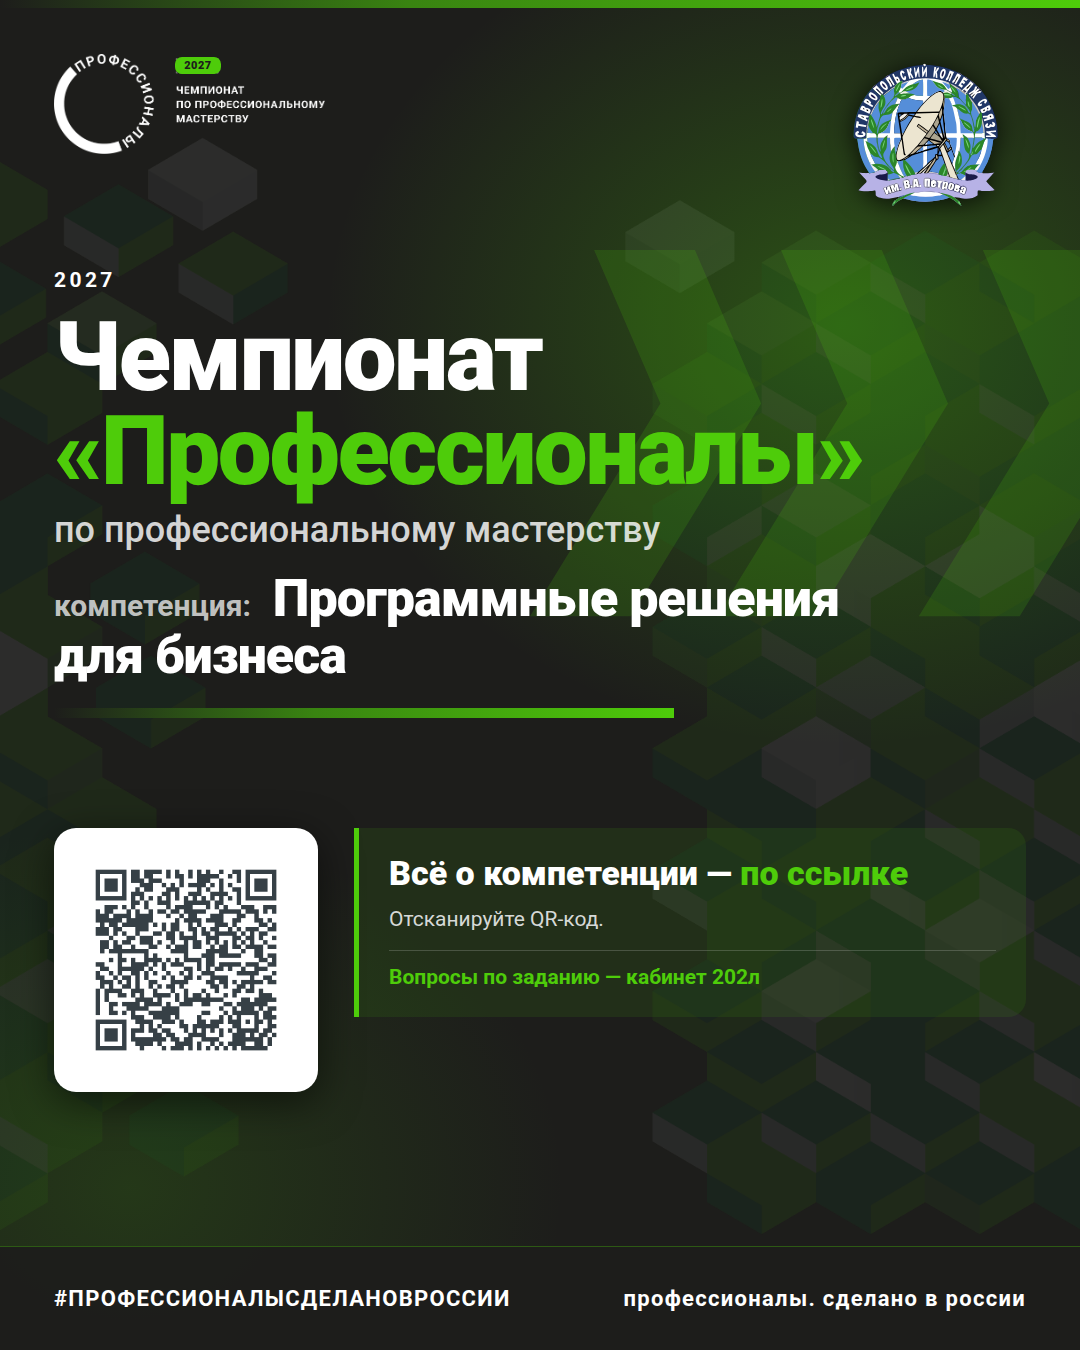
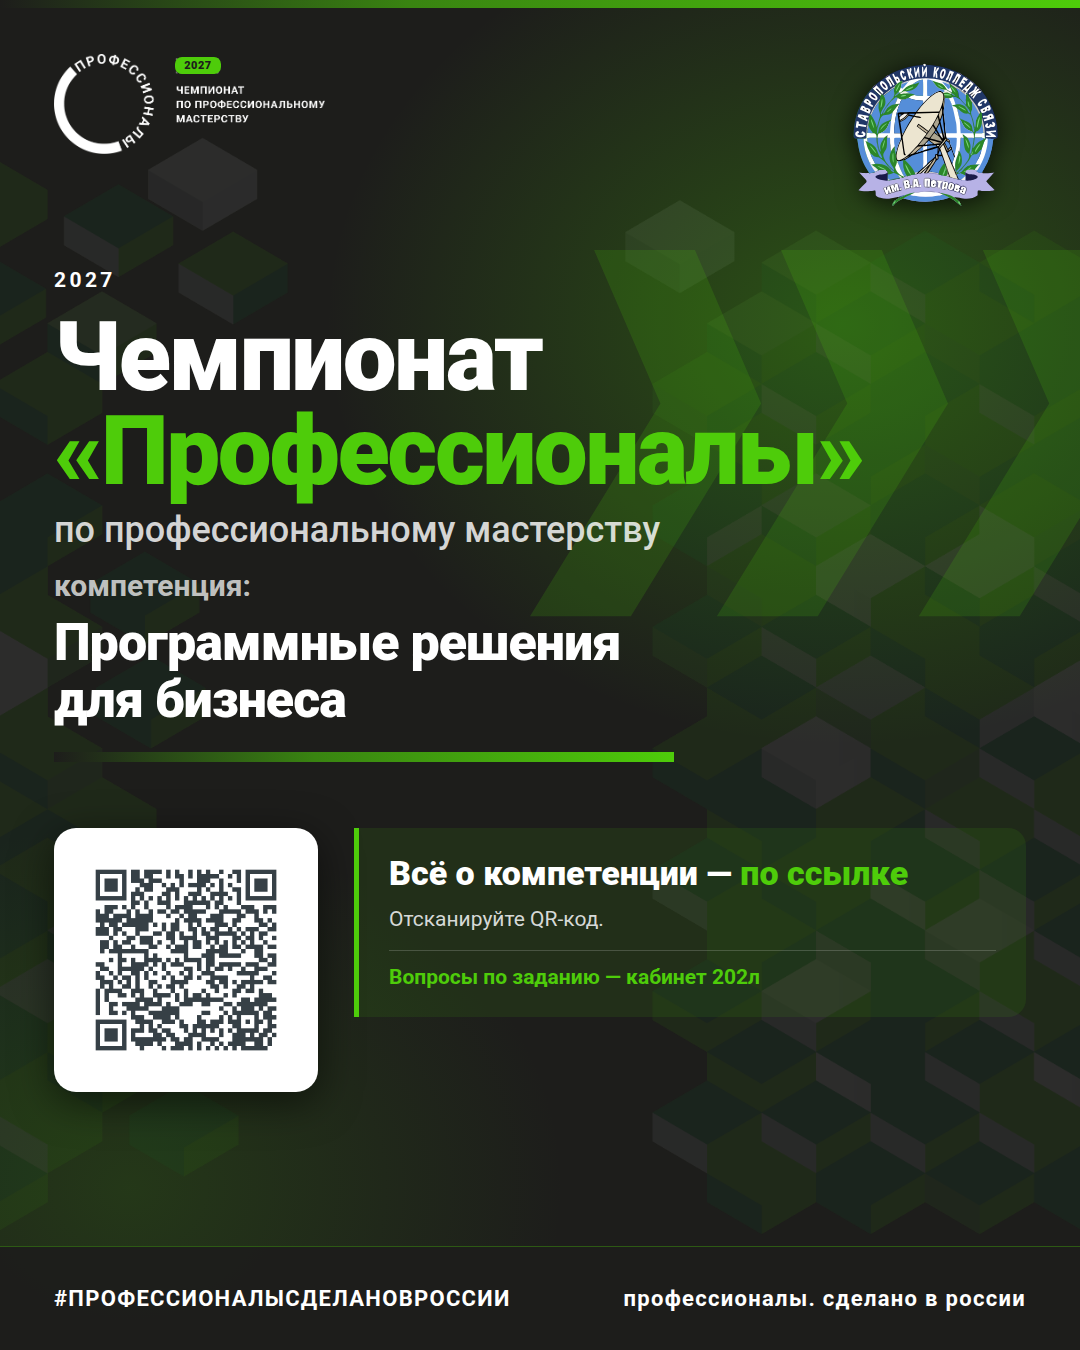
refactor(poster): подпись «компетенция:» снова отдельной строкой
Вернули блочную подпись над названием компетенции, но с двоеточием:

  компетенция:
  Программные решения
  для бизнеса

Раз подпись стоит сама, ширину колонки вернули к исходной: самая
длинная строка теперь «Программные решения» — около 447 px, она влезает
в 560 px с запасом. Основной постер: колонка 660 → 560, слот логотипа
x 740 → 650. Вариант A: 940 → 720.

Changed region(s): [[0.0306, 0.4044, 0.7944, 0.5911]]

diff --git a/post/poster.html b/post/poster.html
@@ -93,12 +93,12 @@
      Без подложки: чистый svg поверх фотографии. Чтобы отделить знак от
      тёмного неба, вместо фона — только тень, и она не перекрывает фон.
      Выравнивание задаёт слот: это и есть свободная зона в правой части
-     полотна — от текстовой колонки до правого поля (x 740…1026) и от
+     полотна — от текстовой колонки до правого поля (x 650…1026) и от
      низа шапки до верха антенны (y 236…772). Логотип центрируется в ней. */
   .college-slot {
     position: absolute; z-index: 5;
-    left: 740px; top: 236px;
-    width: 286px; height: 536px;
+    left: 650px; top: 236px;
+    width: 376px; height: 536px;
     display: flex; align-items: center; justify-content: center;
   }
   /* Чистый svg: подложки нет, отделяет знак от неба только тень. */
@@ -114,7 +114,7 @@
   .content {
     position: absolute; z-index: 5;
     left: 54px; top: 250px;
-    width: 660px;
+    width: 560px;
   }
 
   .eyebrow {
@@ -141,21 +141,21 @@
     text-shadow: 0 2px 12px rgba(0,0,0,.80), 0 0 3px rgba(0,0,0,.45);
   }
 
-  /* Компетенция — второй по важности блок. Подпись «компетенция:»
-     стоит внутри заголовка, на одной строке с названием, но мельче:
-     подпись 25 px, название 40 px. */
+  /* Подпись перед названием компетенции */
+  .sub {
+    margin-top: 16px;
+    font-size: 22px; line-height: 1.2; font-weight: 700;
+    color: rgba(255,255,255,.74);
+    text-shadow: 0 2px 10px rgba(0,0,0,.80), 0 0 3px rgba(0,0,0,.45);
+  }
+
+  /* Компетенция — второй по важности блок */
   h2 {
-    margin-top: 18px;
+    margin-top: 8px;
     font-size: 40px; line-height: 1.14; font-weight: 900;
     color: var(--white);
     letter-spacing: -.5px;
     text-shadow: 0 3px 14px rgba(0,0,0,.80), 0 0 4px rgba(0,0,0,.50);
-  }
-  h2 .label {
-    font-size: 22px; font-weight: 700;
-    letter-spacing: normal;
-    color: rgba(255,255,255,.74);
-    margin-right: 8px;
   }
 
   .rule { display: flex; align-items: center; margin: 22px 0 0; width: 430px; }
@@ -250,7 +250,9 @@
     <h1>Чемпионат<br><span class="name">«Профессионалы»</span></h1>
     <p class="kicker">по профессиональному мастерству</p>
 
-    <h2><span class="label">компетенция:</span> Программные решения<br>для бизнеса</h2>
+    <p class="sub">компетенция:</p>
+
+    <h2>Программные решения<br>для бизнеса</h2>
     <div class="rule"><div class="bar"></div><div class="arrow"></div></div>
   </div>
 

diff --git a/post/poster-variant-a.html b/post/poster-variant-a.html
@@ -98,7 +98,7 @@
   .content {
     position: absolute; z-index: 5;
     left: 54px; top: 268px;
-    width: 940px;
+    width: 720px;
   }
   .eyebrow {
     font-size: 21px; font-weight: 700; letter-spacing: 3.4px;
@@ -120,15 +120,15 @@
     font-size: 36px; line-height: 1.16; font-weight: 500;
     color: rgba(255,255,255,.82);
   }
+  .sub {
+    margin-top: 16px;
+    font-size: 30px; line-height: 1.2; font-weight: 700;
+    color: rgba(255,255,255,.74);
+  }
   h2 {
-    margin-top: 18px;
+    margin-top: 10px;
     font-size: 52px; line-height: 1.1; font-weight: 900;
     color: var(--white); letter-spacing: -1px;
-  }
-  h2 .label {
-    font-size: 30px; font-weight: 700; letter-spacing: normal;
-    color: rgba(255,255,255,.74);
-    margin-right: 10px;
   }
   .rule { display: flex; align-items: center; margin: 24px 0 0; width: 620px; }
   .rule .bar { height: 10px; flex: 1 1 auto;
@@ -206,7 +206,9 @@
     <h1>Чемпионат<br><span class="name">«Профессионалы»</span></h1>
     <p class="kicker">по профессиональному мастерству</p>
 
-    <h2><span class="label">компетенция:</span> Программные решения<br>для бизнеса</h2>
+    <p class="sub">компетенция:</p>
+
+    <h2>Программные решения<br>для бизнеса</h2>
     <div class="rule"><div class="bar"></div></div>
   </div>
 
